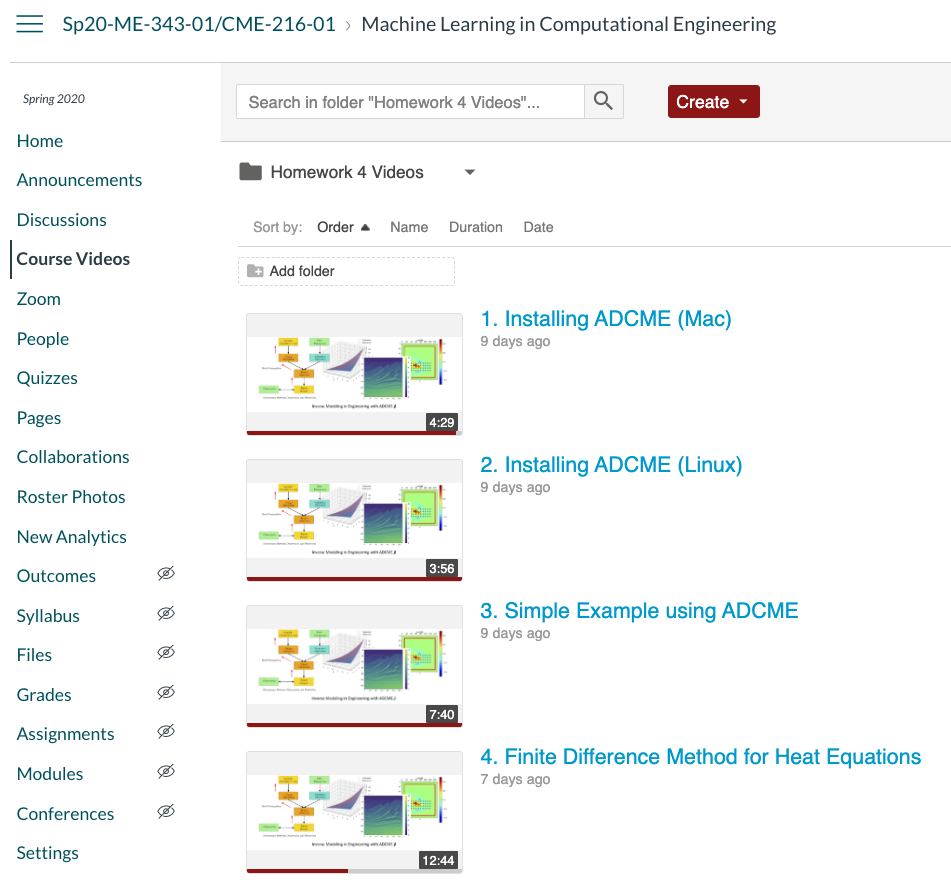
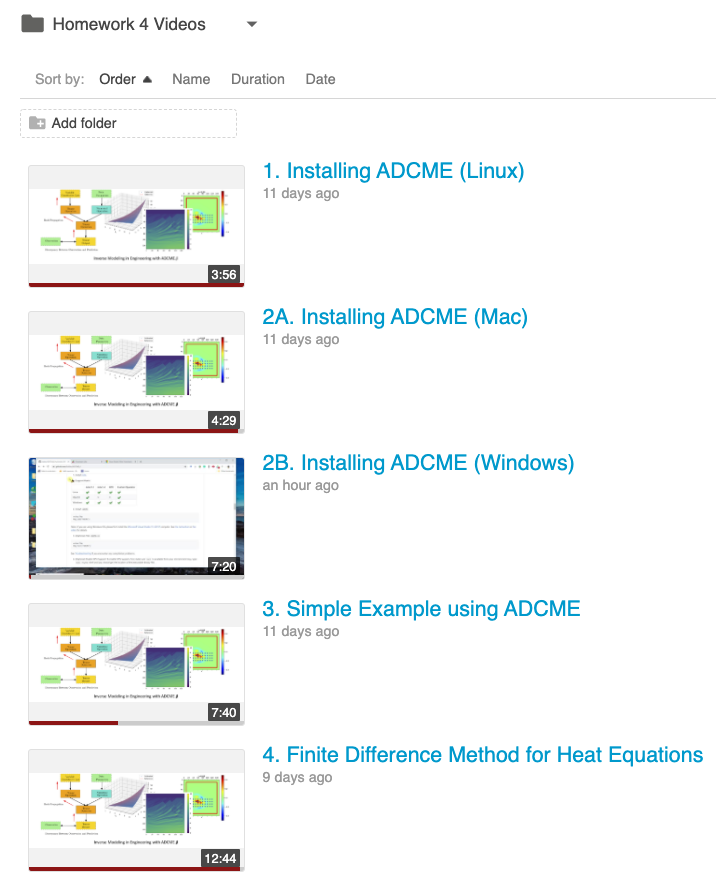
Windows instructions

diff --git a/Homework/HW4/ADCME_setup.md b/Homework/HW4/ADCME_setup.md
@@ -3,19 +3,37 @@ layout: full-width
 title: Installation Guide For ADCME 
 ---
 
-ADCME is tested and supported on Linux and MacOS systems. The support for custom operators on Windows is not available yet. We have separate instructions for MacOS and Linux systems. 
+ADCME is tested and supported on Linux, macOS, and Windows (beta) systems. We have separate instructions for each operating systems.
 
-If you only have a Windows machine, you can use the Stanford [Farmshare](https://srcc.stanford.edu/farmshare2) computing environment. ssh to `rice.stanford.edu` using your SUNetID.
+![](assets/support_matrix.png){:width="40%"}
 
-Please see the first two videos on [Canvas](https://stanford-pilot.hosted.panopto.com/Panopto/Pages/Sessions/List.aspx?folderID=9a0acfdc-5022-4f2d-920d-abb90058a233) for a step-by-step installation guide.
+You can also use the Stanford [Farmshare](https://srcc.stanford.edu/farmshare2) computing environment. ssh to `rice.stanford.edu` using your SUNetID. Use the Linux installation guide for this.
+
+Please see the first three videos on [Canvas](https://stanford-pilot.hosted.panopto.com/Panopto/Pages/Sessions/List.aspx?folderID=9a0acfdc-5022-4f2d-920d-abb90058a233) for a step-by-step installation guide.
 
 # ADCME installation instructions
 
-ADCME has been tested with Julia 1.3/1.4 (Linux) and Julia 1.3 (MacOS). Julia 1.4 on MacOS will not work because of some incompatibility with the current version of TensorFlow. If you have some earlier version of Julia already installed with a version at least 1.0, it should work and you can skip the steps below. Go straight to step 2 "Install Project Dependencies."
+If you have some earlier version of Julia already installed with a version at least 1.0, it should work and you can skip the steps below. Go straight to step 2 "Install Project Dependencies." For Windows platforms, you will also need Microsoft Visual Studio 2017 15 (see below for instructions).
 
 ## 1. Install Julia
 
-### For MacOS
+### For Linux 
+
+[Video with step-by-step instructions](https://stanford-pilot.hosted.panopto.com/Panopto/Pages/Viewer.aspx?id=f823ee8e-42b5-4004-a075-abb7005aa3b8)
+
+Download Julia 1.3 or 1.4 from the [official website](https://julialang.org/downloads/). Uncompress the tarball to any directory you want. There is a directory `bin` inside the Julia directory you just uncompressed. Add the absolute path of the `bin` directory to your `PATH` environment variable. 
+
+Suppose the Julia `bin` path is `<LocalJuliaPath>` (e.g., `~/julia-1.4.1/bin`), execute the following command in your terminal:
+
+```bash
+echo 'export PATH=<LocalJuliaPath>:$PATH' >> ~/.bashrc
+```
+
+In case you use another shell (e.g., `zsh`) other than bash, you need to replace `~/.bashrc` in the command with the corresponding startup file. You can use `echo $SHELL` to check which shell you are using. 
+
+### For macOS
+
+[Video with step-by-step instructions](https://stanford-pilot.hosted.panopto.com/Panopto/Pages/Viewer.aspx?id=027f5390-6cad-4190-ab91-abb70055cb3c)
 
 Due to an incompatibility issue with Julia 1.4 and TensorFlow 1.x, please download and install Julia 1.3 from the [official website](https://julialang.org/downloads/oldreleases/#v131_dec_30_2019). 
 
@@ -37,19 +55,23 @@ Add this path to your `PATH` environment variable (make sure to scroll to the ri
 echo 'export PATH=/Applications/Julia-1.3.app/Contents/Resources/julia/bin:$PATH' >> ~/.bash_profile
 ```
 
-On the most recent version of MacOS, you need to replace `~/.bash_profile` by `~/.zshrc`. If you are unsure, type `ls ~/.zshrc`. If the file exists, this is the one you should use.
+On the most recent version of macOS, you need to replace `~/.bash_profile` by `~/.zshrc`. If you are unsure, type `ls ~/.zshrc`. If the file exists, this is the one you should use.
 
-### For Linux 
+### For Windows
 
-Download Julia 1.3 or 1.4 from the [official website](https://julialang.org/downloads/). Uncompress the tarball to any directory you want. There is a directory `bin` inside the Julia directory you just uncompressed. Add the absolute path of the `bin` directory to your `PATH` environment variable. 
+[Video with step-by-step instructions](https://stanford-pilot.hosted.panopto.com/Panopto/Pages/Viewer.aspx?id=e17b2799-0590-405a-9536-abc20017a4d8)
 
-Suppose the Julia `bin` path is `<LocalJuliaPath>` (e.g., `~/julia-1.4.1/bin`), execute the following command in your terminal:
+If you have a Windows OS, you will need to install Microsoft Visual Studio 2017 15.
 
-```bash
-echo 'export PATH=<LocalJuliaPath>:$PATH' >> ~/.bashrc
-```
+[Download and installation instructions](https://visualstudio.microsoft.com/vs/older-downloads/)
 
-In case you use another shell (e.g., `zsh`) other than bash, you need to replace `~/.bashrc` in the command with the corresponding startup file. You can use `echo $SHELL` to check which shell you are using. 
+![](assets/vs2017.png){:width="40%"}
+
+A free community version is available. Note that this is an older version of Visual Studio. It's not the one from 2019 but the previous version from 2017.
+
+Then you can install Julia following these [instructions](https://julialang.org/downloads/). Choose your version of Windows (32-bit or 64-bit).
+
+[Detailed instructions to install Julia on Windows](https://julialang.org/downloads/platform/#windows)
 
 ---
 
@@ -59,7 +81,7 @@ Restart your shell to apply the new settings. Type `julia` in your terminal and 
 
 ## 2. Install the Project Dependencies
 
-This homework requires installing some Julia packages. Open your julia 
+This homework requires installing some Julia packages. Start julia 
 
 ```bash
 $ julia
@@ -127,7 +149,7 @@ julia> ADCME.make()
 
 The command [ADCME.cmake()](https://cmake.org/cmake/help/latest/guide/tutorial/index.html) will run commands in the file `CMakeLists.txt` and create the appropriate Makefile. Then the command [ADCME.make()](https://www.gnu.org/software/make/manual/make.html) will compile the source code `HeatEquation.h` and `HeatEquation.cpp` to create the shared library.
 
-After running this, you should see that there is a `libHeatEquation.dylib` (MacOS) or `libHeatEquation.so` (Linux) in your `build` directory. 
+After running this, you should see that there is a `libHeatEquation.so` (Linux), `libHeatEquation.dylib` (macOS), or `HeatEquation.dll` (Windows) in your `build` directory. 
 
 Run the `Case2D/example.jl` file to check if the shared library works. You may see some warning messages. If you see the following output at the end:
 
@@ -163,7 +185,7 @@ On some Mac systems, you may encounter the following warning when you run `using
 
 ---
 
-PyPlot is using tkagg backend, which is known to cause crashes on MacOS (#410); use the MPLBACKEND environment variable to request a different backend.
+PyPlot is using tkagg backend, which is known to cause crashes on macOS (#410); use the MPLBACKEND environment variable to request a different backend.
 
 ---
 

diff --git a/Homework/HW4/HW4 Questions.md b/Homework/HW4/HW4 Questions.md
@@ -5,13 +5,13 @@ title: Programming Homework 4
 
 Late day policy: 1 late day with a 20% grade penalty.
 
-Kailai prepared a complete set of videos for this homework. Please go to Canvas in [Course Videos](https://canvas.stanford.edu/courses/118944/external_tools/3367). There is a folder called `Homework 4 Videos`. You will find 9 videos in that folder.
+Kailai prepared a complete set of videos for this homework. Please go to Canvas in [Course Videos](https://canvas.stanford.edu/courses/118944/external_tools/3367). There is a folder called `Homework 4 Videos`. You will find 10 videos in that folder.
 
-![](assets/hw4videos.png){:width="80%"}
+![](assets/hw4videos.png){:width="50%"}
 
 You should watch these videos before doing the homework. Each video covers different parts of the homework so you can start working on this homework after watching the first few videos.
 
-For this homework, you will need to install Julia and ADCME. See this [installation guide](./ADCME_setup.md) for detail setup. The first two videos on [Canvas](https://stanford-pilot.hosted.panopto.com/Panopto/Pages/Sessions/List.aspx?folderID=9a0acfdc-5022-4f2d-920d-abb90058a233) will give you a step-by-step demonstration.
+For this homework, you will need to install Julia and ADCME. See this [installation guide](./ADCME_setup.md) for detail setup. The first three videos on [Canvas](https://stanford-pilot.hosted.panopto.com/Panopto/Pages/Sessions/List.aspx?folderID=9a0acfdc-5022-4f2d-920d-abb90058a233) will give you a step-by-step demonstration.
 
 - [ADCME tutorial pages](https://kailaix.github.io/ADCME.jl/dev/tutorial/)
 - [ADCME basics](https://kailaix.github.io/ADCME.jl/dev/tu_basic/)
@@ -22,7 +22,7 @@ If you are not familiar with Julia, this language is similar to Python and Matla
 - [Main differences between Julia and Python](https://docs.julialang.org/en/v1/manual/noteworthy-differences/#Noteworthy-differences-from-Python-1)
 - [Julia documentation](https://docs.julialang.org/en/v1/)
 
-There are many excellent Julia tutorials. We are providing the links below for _reference_ but you should not have to read this to do the homework.
+There are many excellent Julia tutorials. We are providing the links below for _reference_ but you should _not_ have to read this to do the homework.
 
 - [The Julia Express](http://bogumilkaminski.pl/files/julia_express.pdf)
 - [Julia language: a concise tutorial](https://syl1.gitbook.io/julia-language-a-concise-tutorial/)
